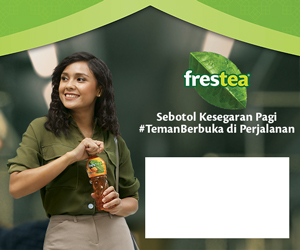
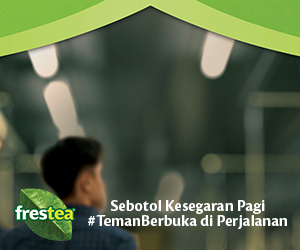
update

diff --git a/idn/preview/idntimes/tvc-mobile.html b/idn/preview/idntimes/tvc-mobile.html
@@ -768,7 +768,7 @@ function callAnalytics(path, queryString) {
 <div style="position: relative; width: 300px; height: 250px; display: block; left: 0; right: 0; margin: auto;">
       <a href="{clickurl}" target="_blank" style="position: absolute; display: block; width: 300px; height: 250px;"></a>
     
-      <video poster="" id="clientVideo" controls muted playsinline preload="metadata" style="width: 148px; height: 90px; position: absolute; bottom: 8px; right: 10px; z-index: 1;">
+      <video poster="" id="clientVideo" controls muted playsinline preload="metadata" style="width: 273px; height: 155px; position: absolute; top: 20px; right: 13px; z-index: 1;">
           <source src="https://ads.idntimes.com/ads-assets/client/frestea/mei2019/video_frestea-compress.mp4" type="video/mp4">
       </video>
     <img src="300x250.jpg" style="max-width: 300px; height: auto;">
